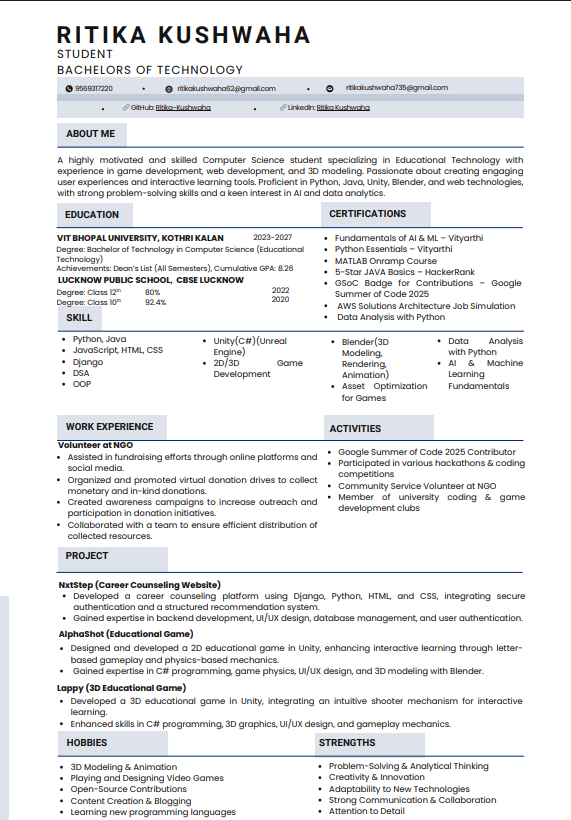
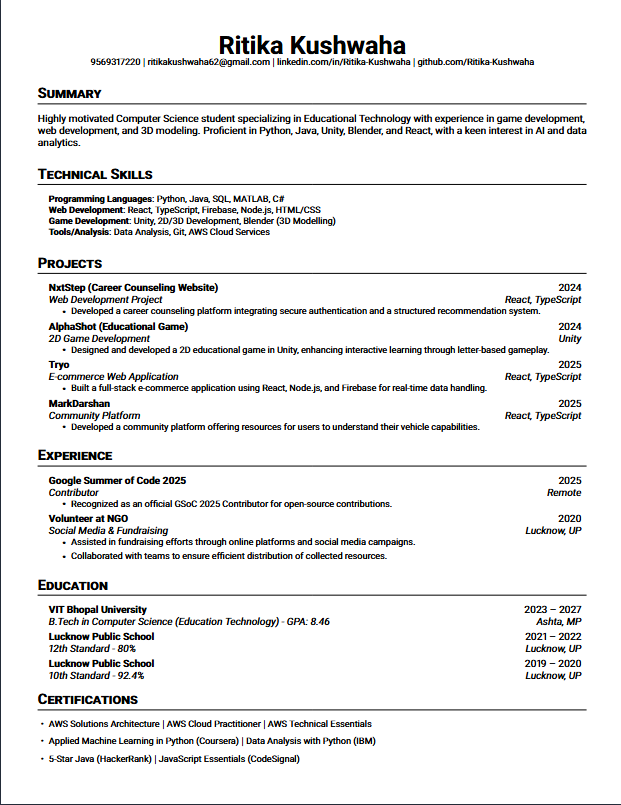
change

diff --git a/app/page.tsx b/app/page.tsx
@@ -24,15 +24,15 @@ const Portfolio = () => {
   // Inline Certifications Component as you had it
   const Certifications = () => {
     const certs = [
+      {title: "AWS Solutions Architect", issuer: "Amazon Web Services", date: "2026", type: "Certificate", img:"/images/AWSSA.png"},
       { title: "GSoC 2025 Badge", issuer: "Google Summer of Code", date: "2025", type: "Badge" , img: "https://encrypted-tbn0.gstatic.com/images?q=tbn:ANd9GcTg9U6Bmi1rYLZjOMmaDjeQsjawxdtIo44Fvg&s"},
       { title: "Fundamentals of AI & ML", issuer: "Vityarthi", date: "2024", type: "Certificate", img: "/images/AI ML Certificate.png" },
       { title: "5-Star JAVA Basics", issuer: "HackerRank", date: "2024", type: "Skill Badge", img: "/images/java.png" },
-      { title: "AWS Solutions Architecture", issuer: "Job Simulation", date: "2024", type: "Simulation" , img: "/images/AWSJ.png"},
-      {title:"AWS Cloud Practitioner", issuer:"Amazon Web Services", date:"2024", type:"Certificate", img:"/images/AWSC.png"},
       { title: "Python Essentials", issuer: "Vityarthi", date: "2024", type: "Certificate", img: "/images/python.png" },
       {title: "AWS Technical Essentials", issuer: "Amazon Web Services", date: "2024", type: "Certificate", img:"/images/AWST.png"},
       {title:"Data Analysis with Python", issuer:"IBM", date:"2025", type:"Certificate", img:"/images/DA.png"},
       {title: "JavaScript Essentials", issuer: "CodeSignal", date: "2025", type: "Certificate", img: "/images/JS.png" },
+      {title: "Full-Stack Engineering with JavaScript", issuer: "CodeSignal", date: "2025", type: "Certificate", img: "/images/FullStack.png" },
       {title:"Applied Machine Learning in Python", issuer:"Coursera", date:"2025", type:"Certificate", img:"/images/ML.png"},
     ];
     return (
@@ -67,8 +67,8 @@ const Portfolio = () => {
   };
 
   return (
-    <div className="min-h-screen bg-[#0f1115] text-white selection:bg-orange-500 selection:text-white overflow-x-hidden">
-      
+    <div className="max-w-7xl mx-auto grid grid-cols-1 md:grid-cols-4 gap-4 px-4 md:px-12 min-h-screen bg-[#0f1115] text-white selection:bg-orange-500 selection:text-white overflow-x-hidden">
+      {/* <div className="max-w-7xl mx-auto grid grid-cols-1 md:grid-cols-4 gap-4 px-4 md:px-12"></div> */}
       <Navbar />
 
       {/* HERO SECTION */}
@@ -83,11 +83,11 @@ const Portfolio = () => {
           </motion.h1>
           <motion.div variants={fadeInUp} className="flex flex-col md:flex-row md:items-end justify-between gap-8 mt-12">
             <div className="max-w-md text-gray-400 leading-relaxed italic text-lg">
-              "Highly motivated and skilled Computer Science student specializing in Educational Technology with experience in game development, web development, and 3D modeling."
+              "Full-Stack Developer specialized in web development, 3D modeling, and AI. Proficient in MERN, Python, Java, Unity, and Blender. Passionate about building interactive, data-driven educational solutions."
             </div>
             <div className="flex gap-4">
                <div className="bg-gray-800/50 p-6 rounded-3xl border border-gray-700 backdrop-blur-sm text-center">
-                  <div className="text-3xl font-bold italic">8.46</div>
+                  <div className="text-3xl font-bold italic">8.62</div>
                   <div className="text-[10px] uppercase tracking-widest text-gray-500 mt-1">GPA </div>
                </div>
                <div className="bg-gray-800/50 p-6 rounded-3xl border border-gray-700 backdrop-blur-sm text-center">

diff --git a/app/work/page.tsx b/app/work/page.tsx
@@ -17,14 +17,7 @@ export default function WorksGallery() {
       icon: <Layers size={40} className="text-orange-500" />,
       img: '/images/nxtstep.png' // Replace with your screenshot
     },
-    {
-      title: "AlphaShot",
-      category: "Game Design",
-      desc: "3D educational game in Unity with letter-based gameplay and physics-based mechanics.",
-      tech: ["Unity", "C#", "Blender"],
-      icon: <Gamepad size={40} className="text-blue-500" />,
-      img: '/images/alphashot.png' // Replace with your screenshot
-    },
+    
     {
       title:"Tryo",
       category: "Web Development",
@@ -37,9 +30,17 @@ export default function WorksGallery() {
       title: "MarkDarshan",
       category: "Web Development",
       desc: "A community platform offering resources and tools for peoples to know there vehicle capabilities.",
-      tech: ["React", "Node.js", "Firebase"],
+      tech: ["React", "Node.js", "Firebase, "],
       icon: <Layers size={40} className="text-purple-500" />,
       img: '/images/markdarshan.png' // Replace with your screenshot
+    },
+    {
+      title: "SalesGenie AI",
+      category: "AI & Web Development",
+      desc: "An AI-powered Sales Intelligence Platform that provides actionable insights for sales teams.",
+      tech: ["Python", "React", "FastAPI", "PostgreSQL", "OpenAI API", "Git", "GitHub"],
+      icon: <Zap size={40} className="text-yellow-500" />,
+      img: '/images/salesgenie.png'
     }
   ];
 

diff --git a/app/education/page.tsx b/app/education/page.tsx
@@ -14,6 +14,14 @@ const ProfessionalTimeline = () => {
       color: "border-green-500/50"
     },
     {
+      year: "2021",
+      title: "Community Service Volunteer",
+      organization: "NGO",
+      description: "Assisted in fundraising and awareness campaigns, managing digital outreach and resource distribution.",
+      icon: <Briefcase className="text-red-400" />,
+      color: "border-red-500/50"
+    },
+    {
       year: "2022",
       title: "12th Grade Completion",
       organization: "Lucknow Public School",  
@@ -46,12 +54,12 @@ const ProfessionalTimeline = () => {
       color: "border-blue-500/50"
     },
     {
-      year: "2021",
-      title: "Community Service Volunteer",
-      organization: "NGO",
-      description: "Assisted in fundraising and awareness campaigns, managing digital outreach and resource distribution.",
-      icon: <Briefcase className="text-red-400" />,
-      color: "border-red-500/50"
+      year: "2026 (Ongoing)",
+      title: "Infosys Springboard Internship 7.0",
+      organization: "Infosys",
+      description: "Ongoing Internship in developing an AI-powered Sales Intelligence Platform named SalesGenie AI",
+      icon: <Award className="text-yellow-400" />,
+      color: "border-yellow-500/50"
     }
   ];
 
